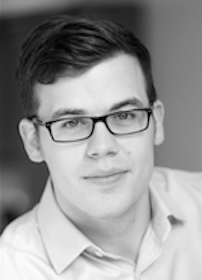
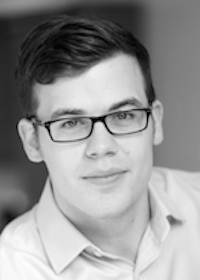
updated mollie

diff --git a/mollie/index.html b/mollie/index.html
@@ -28,7 +28,7 @@
             <a href="https://generalassembly.zoom.us/my/joebliss" class="book">Join his room</a>
         </section>
         <section id="sarah">
-            <img src="images/joe.png" alt="photo of Sarah Hallacher">
+            <img src="images/sarah.jpg" alt="photo of Sarah Hallacher">
             <h2>Sarah Hallacher</h2>
             <a href="https://pi.youcanbook.me/v2/jsps/cal.jsp?cal=dPmeSkteLUr3h7EXHSTm&team=Sarah+Hallacher">Book Now!</a>
             <p>Already have a booking with Sarah?</p>
